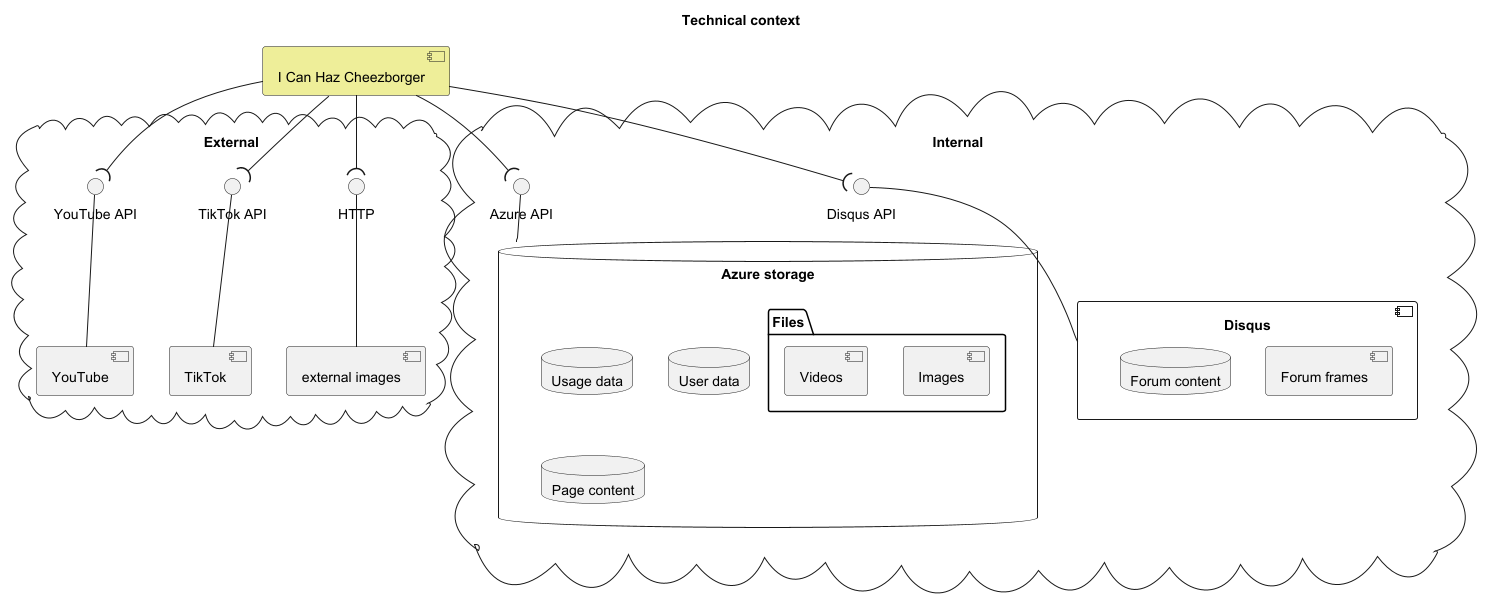
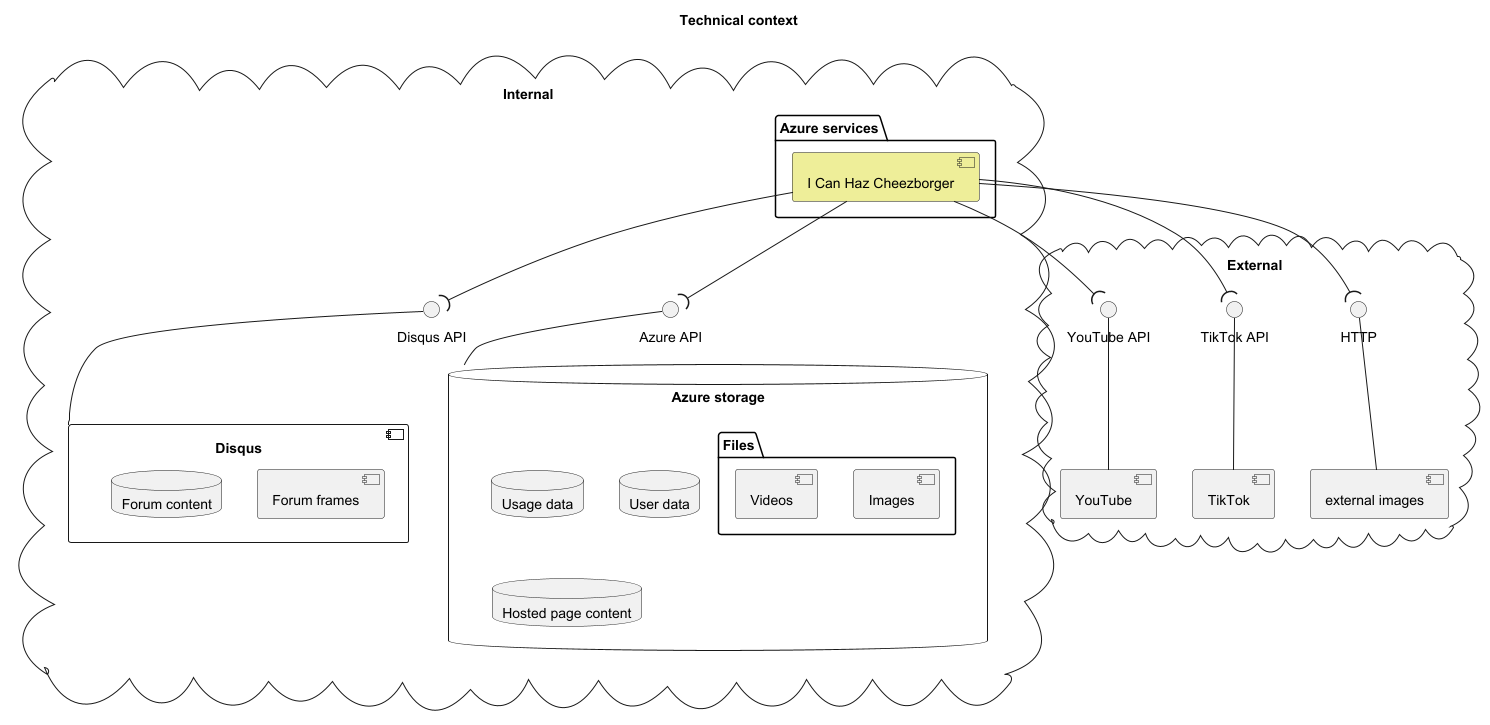
Update sections 2,3,4, and 10

diff --git a/cheezborger/ReadMe.md b/cheezborger/ReadMe.md
@@ -15,7 +15,7 @@ My solution to the [I Can Haz Cheezborger kata](https://fundamentalsofsoftwarear
 | Accessibility | All content must be accessible to users with disabilities, or where not possible, eg. visual content for visually impaired users, alternative access to the content must be provided, eg. alt tags |
 | Interoperability | The social media landscape will undergo several unanticipated changes over the next 10 years. The software must be able to interoperate with these new and rapidly changing external systems. |
 | Evolvability | Internet trends change quickly, the system must support adding new functionality quickly to match |
-| Maintainability | As this product is intended to grow into a position of dominance over 10 years, the system must be easy to maintain |
+| Observability | VC funder wants to harvest data across trends |
 
 ## 1.3 Stakeholders
 
@@ -32,7 +32,7 @@ My solution to the [I Can Haz Cheezborger kata](https://fundamentalsofsoftwarear
 | Constraint | Description |
 |---|---|
 | International privacy law | The system is intended for use in most countries in the world and must adhere to the data privacy laws of each one. |
-| Web first | The system will be designed web first, with phone apps and any other products being wrappers of the web site. |
+| Small development team | To stretch existing VC funding, we will start with a small development team to prove value to secure future funding. |
 
 # 3. Context & Scope
 
@@ -51,7 +51,7 @@ See requirements
 | Quality Goal | Scenario | Solution approach | Link to details |
 |---|---|---|---|
 | 10.2.2 SC6 | Time to market | **Design to discard**. The system will be designed in such a way that subsystems can be swapped out easily, thus allowing the components to be written quickly and replaced with more maintainable and more scalable code over time as needed | |
-| 10.2.2 SC6 | Time to market | **Prefer value to quality**. Individual subsystems will be written with a bias to delivering value quickly rather than maintainability | |
+| 10.2.2 SC6 | Time to market | **Leverage 3rd party solutions**. We will use Azure hosting for web pages, data, and services. We will use Disqus for the forums' backend. |
 | 10.2.2 SC4 | Interoperability | **Loose message structure**. Subsystems will not communicate through strict message structures |
 
 # Building Block View
@@ -59,9 +59,10 @@ See requirements
 # Deployment View
 # Crosscutting Concepts
 # Architectural Decisions
+
 # 10. Quality Requirements
 
-# 10.1 Quality Tree
+## 10.1 Quality Tree
 
 | Quality Category | Quality | Description | Scenario |
 |---|---|---|---|
@@ -71,16 +72,18 @@ See requirements
 | Legal | Data Privacy Laws | Storage location and duration, as well as usage, must comply to all markets in which we will operate | |
 | | Legal Content | Content injected into system must be scanned for copyrighted content | |
 | Accessibility | Accessible to different levels of visual impairment | All content must be accessible to users with visual impairment, or where not possible, alternative access to the content must be provided, eg. alt tags | |
+| Discoverablility | Optimized for Search Engines | Output must be designed to optimize SEO | |
 | Interoperability | Ability to search and consume content from other products | The social media landscape will undergo several unanticipated changes over the next 10 years. The software must be able to interoperate with these new and rapidly changing external systems. | SC3 |
 | | Quickly integrate new systems | As new systems arise that contain memes, the system must be able to integrate with them quickly. | SC4 |
 | Evolvability | Quickly adopt new types of content | Internet trends change quickly, the system must support adding new functionality quickly to match | SC5 |
 | Maintainability | Support for 10 years | As this product is intended to grow into a position of dominance over 10 years, the system must be easy to maintain | |
-| Time to Market | Be online by end of fiscal year | ... | SC6 |
-| Scalability | Storage needs can grow indefinitely | ... | ... |
-| Responsiveness | The hottest meme pages and their content must be available quickly | ... | ... |
-| Elasticity | Handle surges during meme-worth events | ... | ... |
+| Time to Market | Be online by end of fiscal year | To secure future funding, we must be serving our first pages and marketing data by end of the fiscal year | SC6 |
+| Scalability | Increasing storage needs | Storage needs can grow indefinitely as content is added | |
+| Responsiveness | Hot content served quickly | The hottest meme pages and their content must be available quickly | |
+| Elasticity | Handle surges during meme-worth events | When a meme is hot, traffic will spike for its page, and we must be able to serve spikes in views and edits | |
+| Observability | Collect usage data | VC funder wants to harvest data across trends | |
 
-# 10.2 Quality Scenarios
+## 10.2 Quality Scenarios
 
 | Id | Scenario |
 |---|---|
